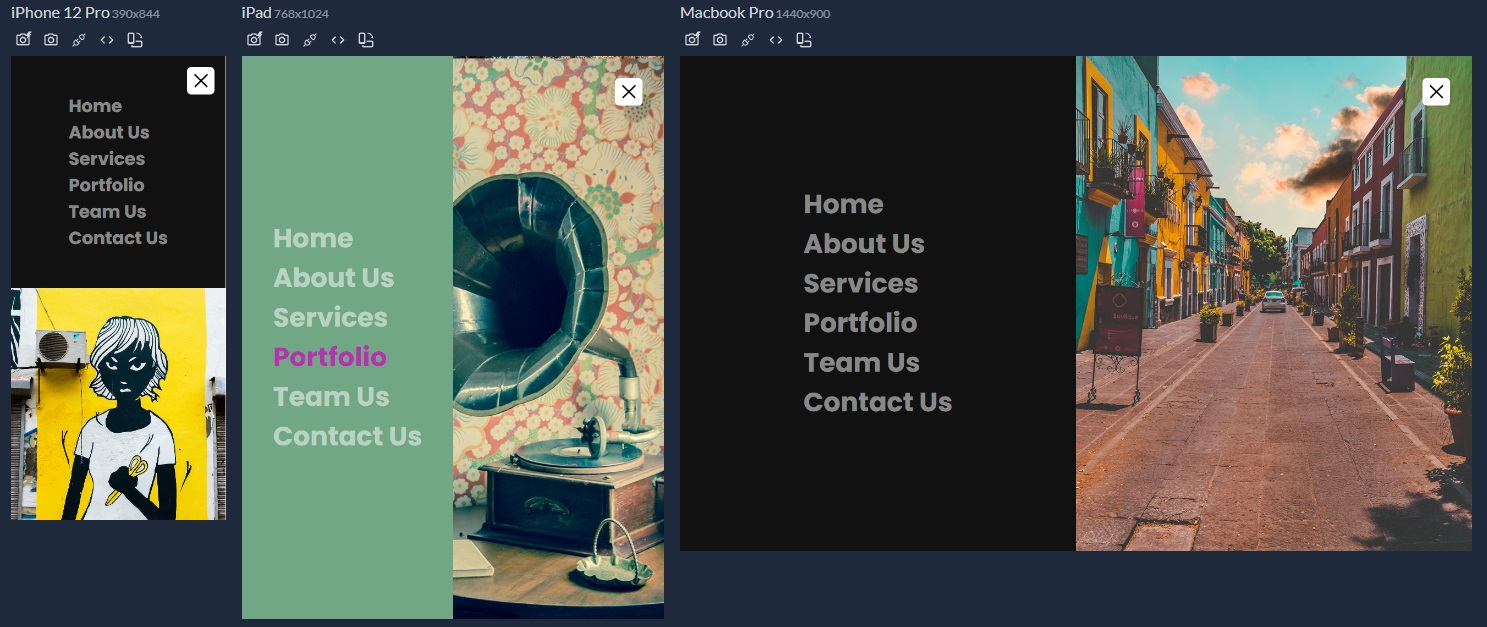
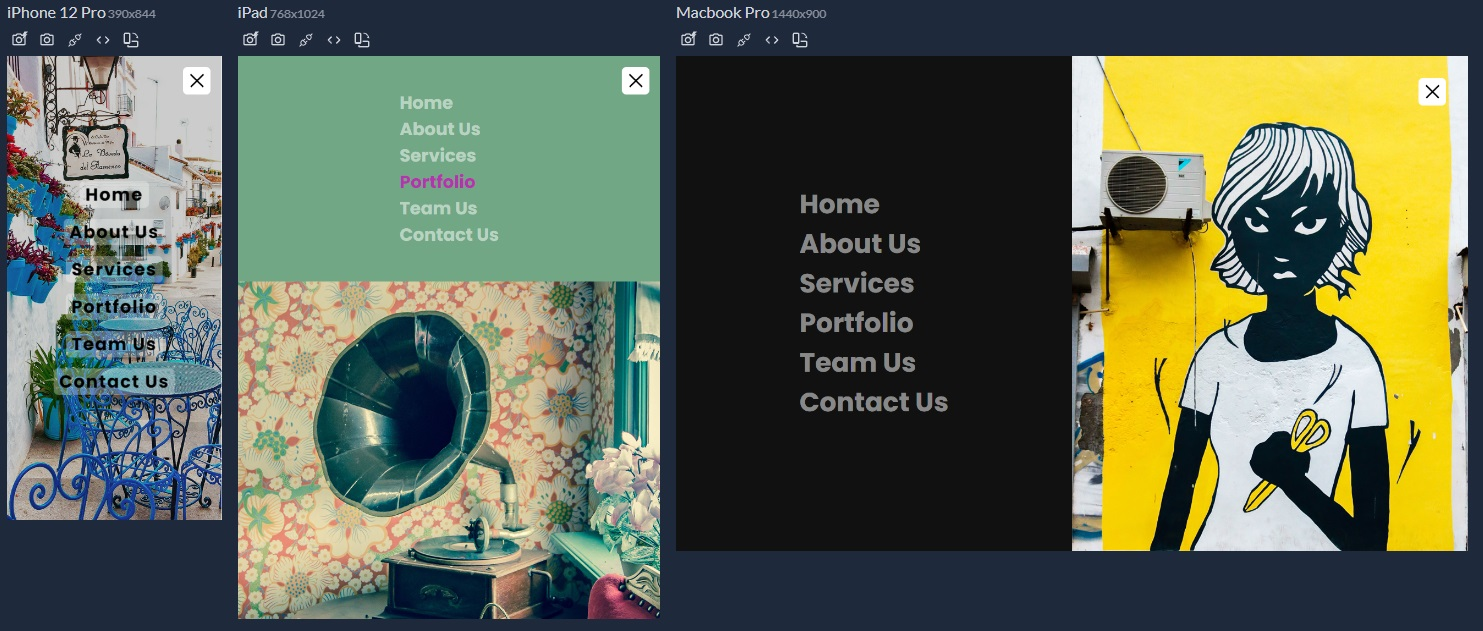
feat: add preview image an other code improvements

diff --git a/css/styles.scss b/css/styles.scss
@@ -96,7 +96,7 @@
     filter: invert(1);
   }
 }
-@media (max-width: 700px){
+@media (max-width: 800px){
   .navigation{
     flex-direction: column;
     width: 100%;
@@ -116,5 +116,58 @@
   .menuToggle{
     top: 20px;
     right: 20px;
+  }
+}
+@media (max-width: 400px){
+  .navArea{
+    position: absolute;
+    top: 0;
+    left: 0;
+    width: 100%;
+    height: 100%;
+    display: flex;
+    justify-content: center;
+    align-items: center;
+    z-index: 10;
+    ul{
+      display: flex;
+      justify-content: center;
+      align-items: center;
+      flex-direction: column;
+    li{
+        background: rgba(255, 255, 255, 0.3);
+        filter: blur(0.5px);
+        margin: 10px 10px;
+        padding: 0px 10px;
+        border-radius: 8px;
+        &:hover{
+          background: rgba(255, 255, 255, 0.3);
+          filter: blur(0.5px);
+
+
+          // background: #ff355a;
+            border-radius: 8px;
+            &:before{
+              opacity: 0;
+            }
+          }
+        a{
+          color: #000;
+          font-size: 2em;
+          letter-spacing: 2px;
+        }
+      }
+    }  
+  }
+  .imgArea{
+    position: absolute;
+    top: 0;
+    left: 0;
+    width: 100%;
+    height: 100vh;
+    background: #000;
+    img{
+      opacity: 0.8;        
+    }
   }
 }

diff --git a/css/styles.css b/css/styles.css
@@ -114,7 +114,7 @@
   filter: invert(1);
 }
 
-@media (max-width: 700px) {
+@media (max-width: 800px) {
   .navigation {
     flex-direction: column;
     width: 100%;
@@ -134,5 +134,55 @@
   .menuToggle {
     top: 20px;
     right: 20px;
+  }
+}
+@media (max-width: 400px) {
+  .navArea {
+    position: absolute;
+    top: 0;
+    left: 0;
+    width: 100%;
+    height: 100%;
+    display: flex;
+    justify-content: center;
+    align-items: center;
+    z-index: 10;
+  }
+  .navArea ul {
+    display: flex;
+    justify-content: center;
+    align-items: center;
+    flex-direction: column;
+  }
+  .navArea ul li {
+    background: rgba(255, 255, 255, 0.3);
+    filter: blur(0.5px);
+    margin: 10px 10px;
+    padding: 0px 10px;
+    border-radius: 8px;
+  }
+  .navArea ul li:hover {
+    background: rgba(255, 255, 255, 0.3);
+    filter: blur(0.5px);
+    border-radius: 8px;
+  }
+  .navArea ul li:hover:before {
+    opacity: 0;
+  }
+  .navArea ul li a {
+    color: #000;
+    font-size: 2em;
+    letter-spacing: 2px;
+  }
+  .imgArea {
+    position: absolute;
+    top: 0;
+    left: 0;
+    width: 100%;
+    height: 100vh;
+    background: #000;
+  }
+  .imgArea img {
+    opacity: 0.8;
   }
 }/*# sourceMappingURL=styles.css.map */
